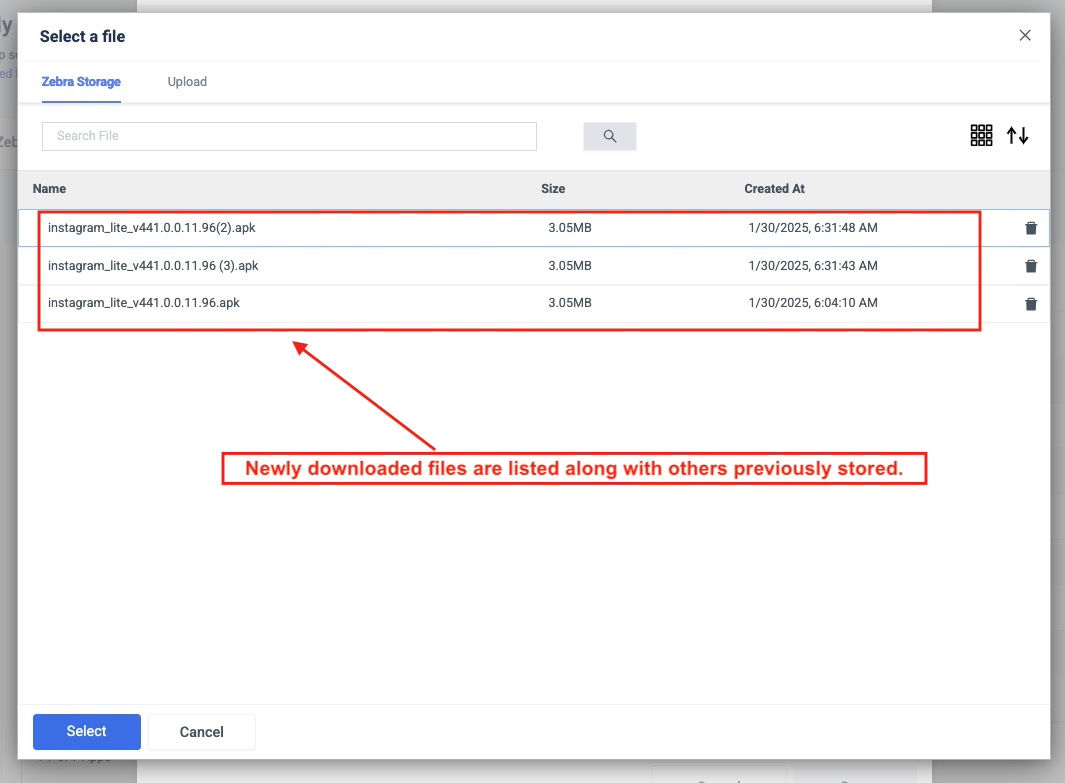
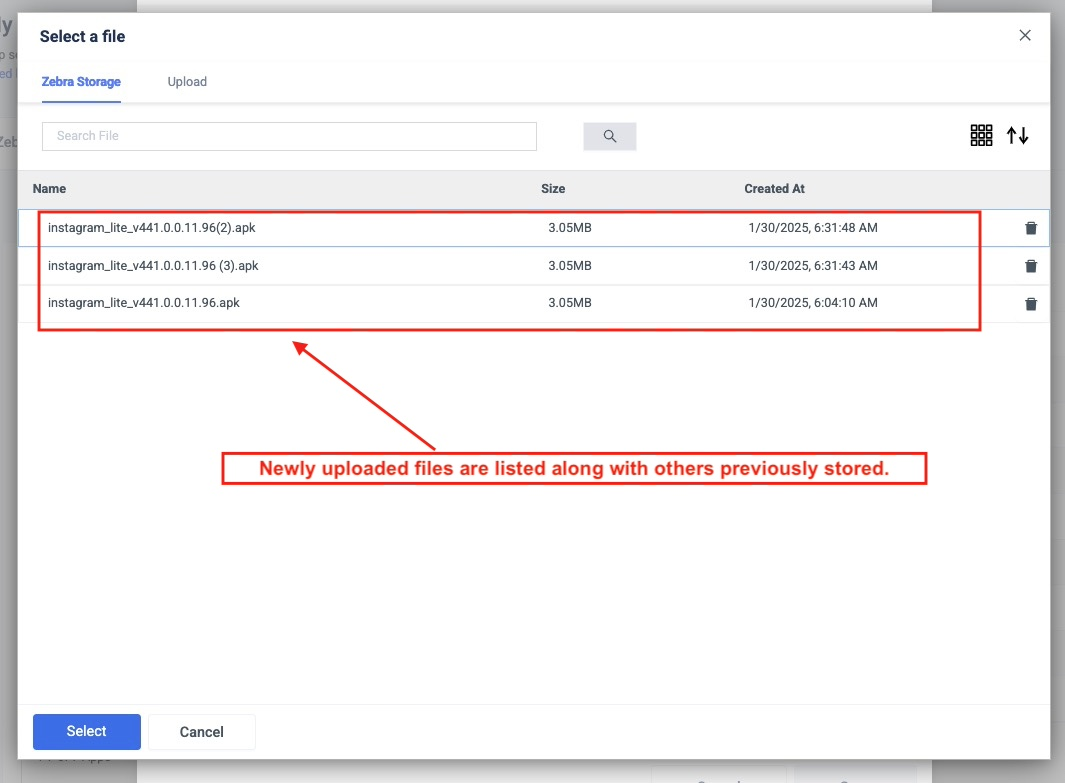
[TUT-106284; DLM-46585] ZDNA 5.1 updates, per eng; tweex

Changed region(s): [[0.2169, 0.5824, 0.8676, 0.613]]

diff --git a/zebradna/5-1/usage/index.html b/zebradna/5-1/usage/index.html
@@ -1888,6 +1888,10 @@ Then <strong>click "copy link"</strong> button: <br>
 
 <p>DNA Cloud 5.1 introduced Zebra Storage, an alternative to the use of Google Drive for the storage and deployment of apps and related files.</p>
 
+<blockquote>
+  <p><i class="fa fa-exclamation-circle" style="color:#FF0000;"></i> Cybersecurity solutions such as Zscaler might cause errors when uploading some <code>.apk</code> files to Zebra Storage. As a troubleshooting measure, temporarily disable the solution, upload the affected file(s) and reactivate before proceeding.</p>
+</blockquote>
+
 <h4 id="notes" class="anchor"><a class="heading-anchor" href="#notes"><span></span></a>Notes:</h4>
 
 <ul>
@@ -1946,13 +1950,14 @@ Then <strong>click "copy link"</strong> button: <br>
 <br></p></li>
 
 <li><p><strong>Select the "Upload" tab</strong> to select apps for upload.<br>
-Drag files into the dialog box <strong>~OR~</strong> click "Select files from your device" to browse files on the host PC: 
+Drag app and/or Enterprise Browser <code>Config.xml</code> files into the dialog box <strong>~OR~</strong> click "Select files from your device" to browse files on the host PC. <strong>All other app-config files must be deployed from a local storage source</strong>.<br>
+<strong>Once all files are selected, click "Upload" button</strong> (lower-left corner) to proceed: <br>
 <img alt="image" style="height:400px" src="51_zstor_02g.jpg">
 <em>Click image to enlarge; ESC to exit.</em>
 <br></p></li>
 
 <li><p>A screen similar to the image below is displayed while uploads are in progress.<br> 
-<i class="fa fa-exclamation-triangle" style="color:#FFA500;"></i> <strong>DO NOT DISMISS THIS DIALOG before all downloads are completed</strong>:
+<i class="fa fa-exclamation-triangle" style="color:#FFA500;"></i> <strong>DO NOT DISMISS THIS DIALOG before all downloads are completed</strong>.<br> <i class="fa fa-exclamation-circle" style="color:#FF0000;"></i> Organizations employing a cybersecurity solution might encounter errors when uploading some <code>.apk</code> files to Zebra Storage.
 <img alt="image" style="height:400px" src="51_zstor_02e.jpg">
 <em>Click image to enlarge; ESC to exit.</em>
 <br></p></li>
@@ -1960,11 +1965,26 @@ Drag files into the dialog box <strong>~OR~</strong> click "Select files from yo
 
 <h4 id="stepii" class="anchor"><a class="heading-anchor" href="#stepii"><span></span></a>Step II</h4>
 
+<ul>
+<li><strong><u>IMPORTANT</u></strong>: 
+
+
+<ul>
+<li><strong>Only <code>.apk</code> files appear in the UI shown below when viewed in this context</strong>. </li>
+
+<li>Enterprise Browser config files uploaded here appear for selection when only when <a href="#createappsetupprofile">creating app-deployment Profiles</a>.</li>
+
+<li>Zebra recommends uploading ONLY <code>.apk</code> files and EB <code>Config.xml</code> files to Zebra Storage. </li>
+
+<li>All non-EB config files MUST be added to app-setup Profiles from local sources. </li></ul>
+</li>
+</ul>
+
 <ol>
-<li><p>Once downloads are completed, apps appear under the "Zebra Storage" tab similar to the image below.<br>
-(To get to the screen below from the ZDNA Dashboard: My Apps &gt; Add App &gt; Browse File)<br>
+<li><p>Once uploads are completed (following Steps 1–5 above), apps appear under the "Zebra Storage" tab similar to the image below. <br>
 <strong>To prepare an app for deployment, highlight the app and click "Select"</strong> to proceed: 
 <img alt="image" style="height:400px" src="51_zstor_02h.jpg">
+<i>To display this screen from the ZDNA Dashboard: <b>My Apps &gt; My Collection &gt; Add App &gt; Browse File</b></i><br> 
 <em>Click image to enlarge; ESC to exit.</em>
 <br></p></li>
 
@@ -1978,7 +1998,7 @@ Drag files into the dialog box <strong>~OR~</strong> click "Select files from yo
 <em>Click image to enlarge; ESC to exit.</em>
 <br></p></li>
 
-<li><p>The app (renamed "Store0101_comms") is ready for deployment.<br> Notice that apps occupy multiple lines. The top is for the <code>.apk</code> itself; additional lines represent each app version available for deployment.<br>
+<li><p>The app (renamed "Store0101_comms") is ready for deployment.<br> Notice that apps occupy multiple lines. The top line represents the <code>.apk</code> itself; additional lines represent each app version available for deployment.<br>
 <strong>Click "Edit" to change a version's data, or "Setup" to create a deployment Profile</strong>: 
 <img alt="image" style="height:400px" src="51_zstor_02d.jpg">
 <em>Click image to enlarge; ESC to exit.</em>

diff --git a/zebradna/5-1/about/index.html b/zebradna/5-1/about/index.html
@@ -268,18 +268,39 @@
 <h2 id="newinzdna51" class="anchor"><a class="heading-anchor" href="#newinzdna51"><span></span></a>New in ZDNA 5.1</h2>
 
 <ul>
-<li>Introduces <a href="../usage/#zebrastorage">Zebra Storage</a>, an alternative to Google Drive for app deployment.</li>
+<li>Introduces <a href="../usage/#zebrastorage">Zebra Storage</a>, an alternative to Google Drive for app deployment <i>‡</i> </li>
 
-<li>Adds Presence column with filtering on Android Updates page<i>†</i></li>
+<li>Adds "Presence" column with filtering on Android Updates page<i>†</i>
+<img alt="image" style="height:250px" src="51_presence_filter.png">
+<em>Click image to enlarge; ESC to exit</em>.
+<br></li>
 
-<li>Adds Last Connected column on Android Updates page </li>
+<li>Adds "Last Connected" column on Android Updates page 
+<img alt="image" style="height:250px" src="51_last_connected.png">
+<em>Click image to enlarge; ESC to exit</em>.
+<br></li>
 
-<li>UI Enhancements in My Apps &gt;&gt; New Setup and Licensing page</li>
+<li>UI Enhancements in My Apps &gt; New Setup and Licensing page</li>
 
-<li>Adds numerous enhancements to the <a href="../support/rxlogger">Remote Rxlogger</a> diagnostics utility</li>
+<li>Includes enhancements to the <a href="../support/rxlogger">Remote Rxlogger</a> diagnostics utility, including: 
+
+
+<ul>
+<li>Adds “Total Device Count” on the Target Devices page </li>
+
+<li>Adds the ability to "Delete Jobs" in bulk from a Remote RxLogger job listing  </li>
+
+<li>Adds “Status Details” column on Job Details page </li>
+
+<li>Adds “Created” date on Job Details page<br></li>
+
+<li><strong>NOTE</strong>: The Long Term Storage (LTS) module is no longer available in Remote RxLogger</li></ul>
+</li>
 </ul>
 
 <p><i><font size="2" color="DimGrey"> † Presence information requires an update to <a href="../setup/#iconfigurenetwork">network settings</a>. Presence on devices managed by third-party EMM systems require <a href="https://play.google.com/store/apps/details?id=com.zebra.commontransportlayer&amp;hl=en_US">Zebra Common Transport Layer 2.1</a> or later.<i class="fa fa-external-link" style="color:#3498DB;"></i></font></i></p>
+
+<p><i><font size="2" color="DimGrey"> ‡ Organizations using cybersecurity solutions such as Zscaler might encounter errors when uploading some <code>.apk</code> files to Zebra Storage. <a href="../usage/#zebrastorage">More info</a>.</font></i></p>
 
 <p><i class="fa fa-exclamation-circle" style="color:#FF0000;"></i> <strong>NOTICE: <u>Device upgrades to Android 14 and all "Update to Latest" actions are blocked</u></strong> until development of a DNA Cloud client for Android 14 is completed. </p>
 

diff --git a/zebradna/5-1/support/index.html b/zebradna/5-1/support/index.html
@@ -278,7 +278,7 @@ MULTI-IMAGE TABLE (for images)
 
 <hr>
 
-<h3 id="rxlogger" class="anchor"><a class="heading-anchor" href="#rxlogger"><span></span></a>RxLogger</h3>
+<h3 id="rxloggerrxlogger" class="anchor"><a class="heading-anchor" href="#rxloggerrxlogger"><span></span></a><a href="rxlogger">RxLogger</a></h3>
 
 <p><img alt="image" style="height:350px" src="44_rxlogr_logs.jpg">
 <em>Click image to enlarge; ESC to exit.</em>
@@ -287,7 +287,7 @@ MULTI-IMAGE TABLE (for images)
 <p>RxLogger is a utility included with all Zebra devices that collects data and event logs from the Android kernel, logcat and other system components, and stores them in a single location where they can be filtered, displayed and analyzed. </p>
 
 <blockquote>
-  <p><a href="rxlogger">Go to RxLogger Usage Guide</a></p>
+  <p>[Go to RxLogger Usage Guide</p>
 </blockquote>
 
 <!-- 
@@ -296,7 +296,7 @@ MULTI-IMAGE TABLE (for images)
 
 <hr>
 
-<h3 id="wirelessinsights" class="anchor"><a class="heading-anchor" href="#wirelessinsights"><span></span></a>Wireless Insights</h3>
+<h3 id="wirelessinsightswirelessinsights" class="anchor"><a class="heading-anchor" href="#wirelessinsightswirelessinsights"><span></span></a><a href="wirelessinsights">Wireless Insights</a></h3>
 
 <p>Wireless Insights is a service built into Zebra devices that provides visibility into cellular and Wi-Fi performance, roaming activities and voice data metrics.</p>
 
